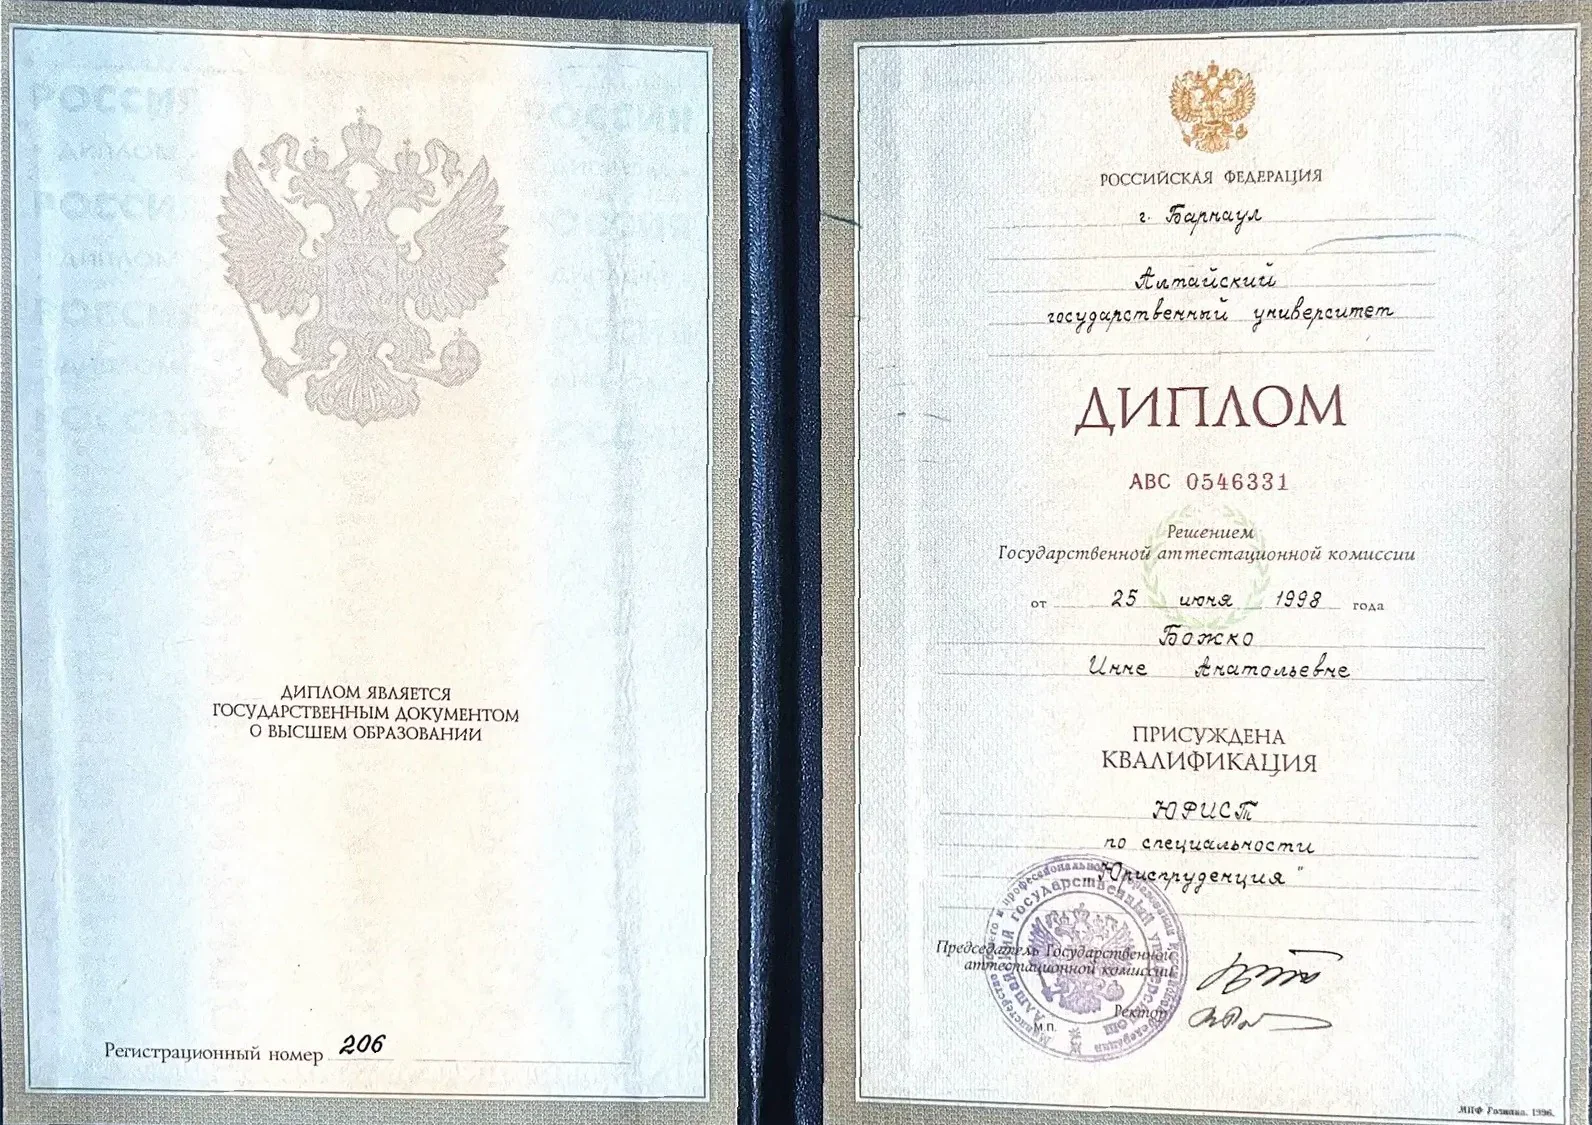
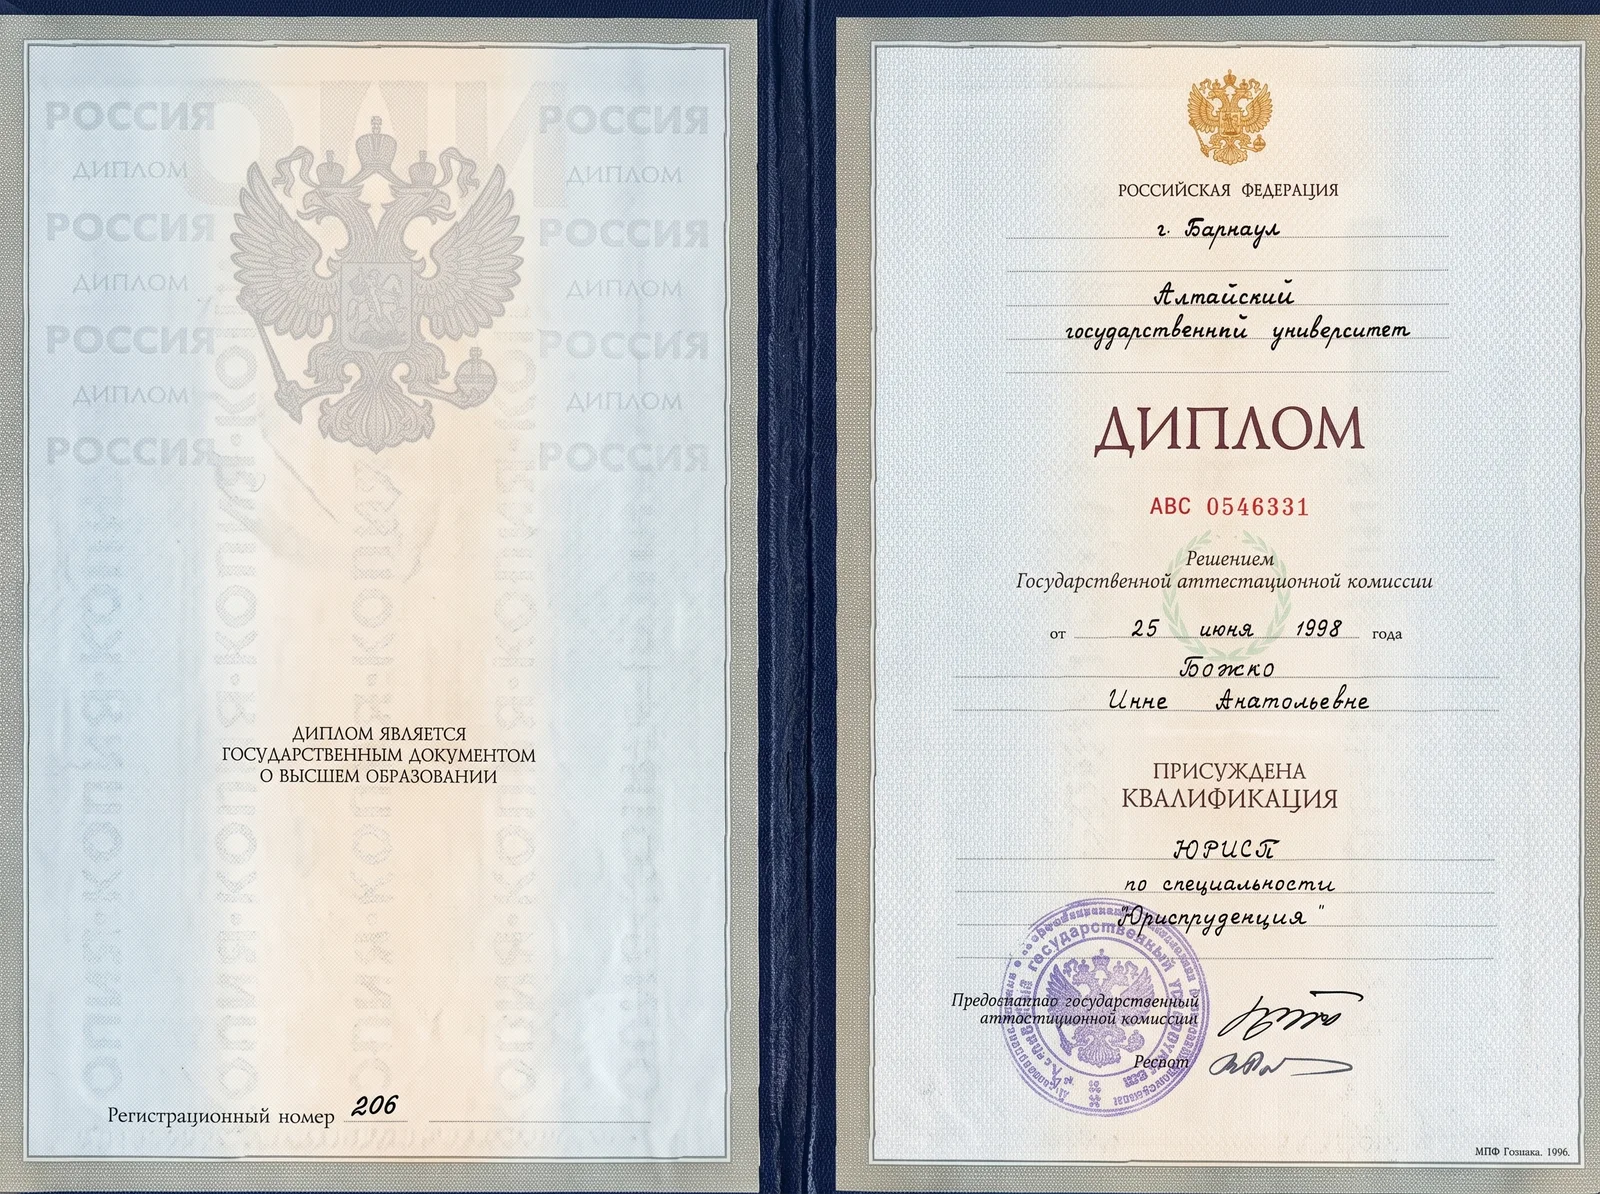
Replace credential scans with edited WebP versions
Convert the three new diploma and certificate JPEGs to WebP, update
dimensions in the credentials section, and remove the Gemini sources.

diff --git a/index.html b/index.html
@@ -709,8 +709,8 @@
                 class="credential__img"
                 src="./images/diploma-lawyer-1998.webp"
                 alt="Диплом о высшем образовании: квалификация «юрист», Алтайский государственный университет, 1998"
-                width="1592"
-                height="1125"
+                width="1600"
+                height="1194"
                 loading="lazy"
                 decoding="async"
               />
